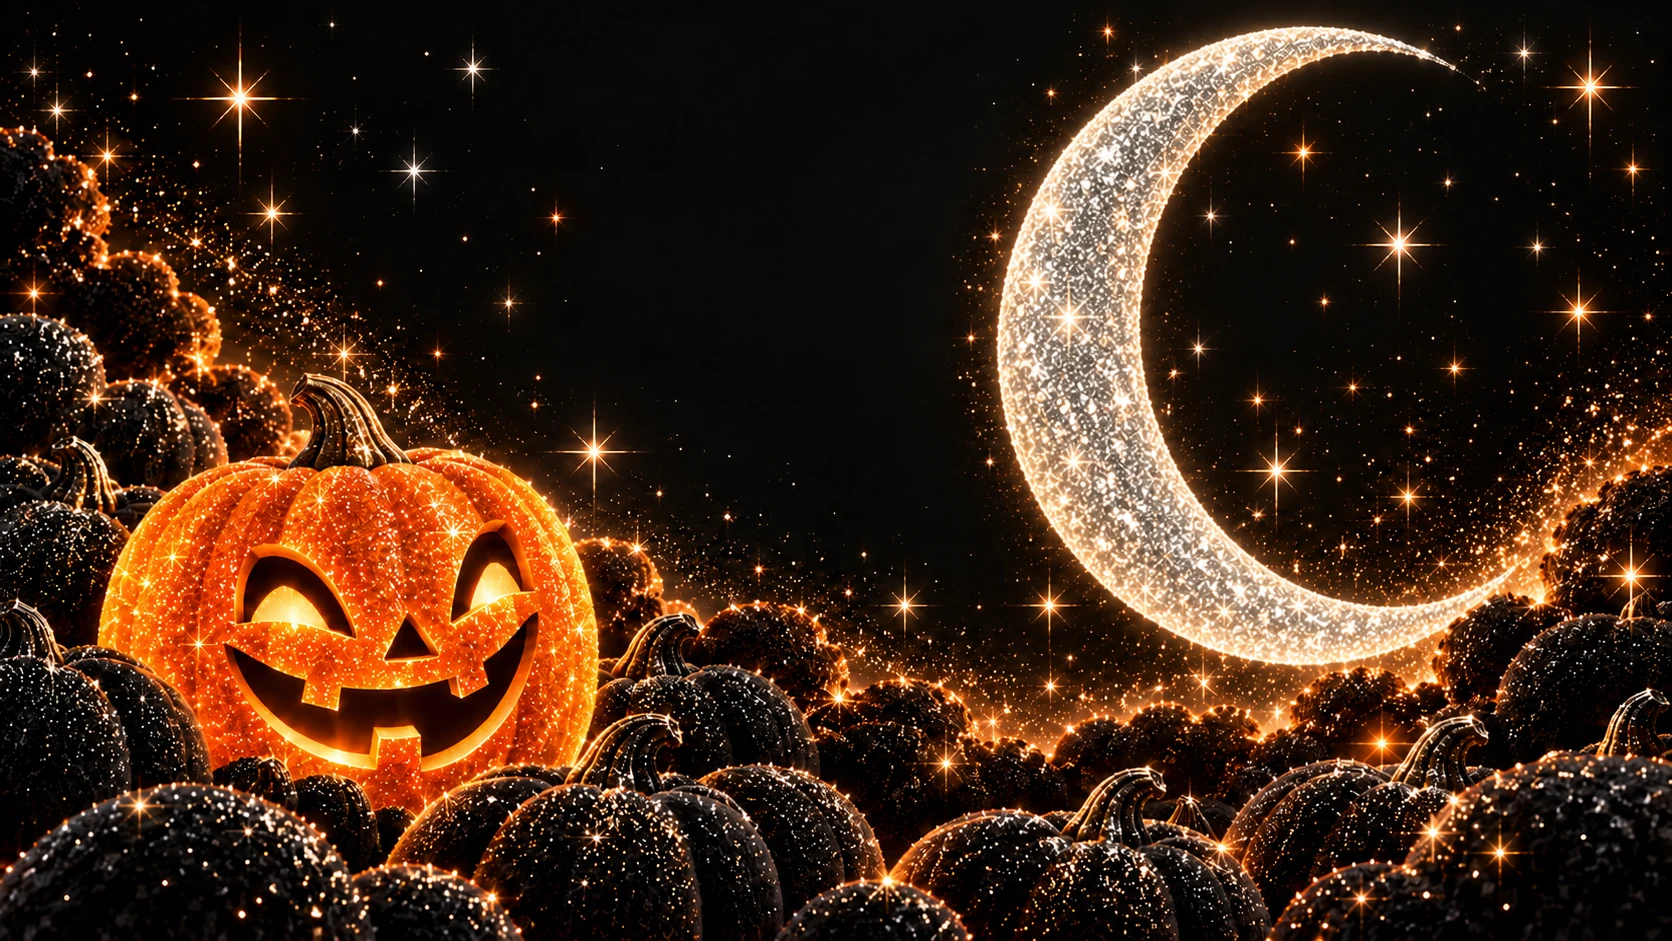
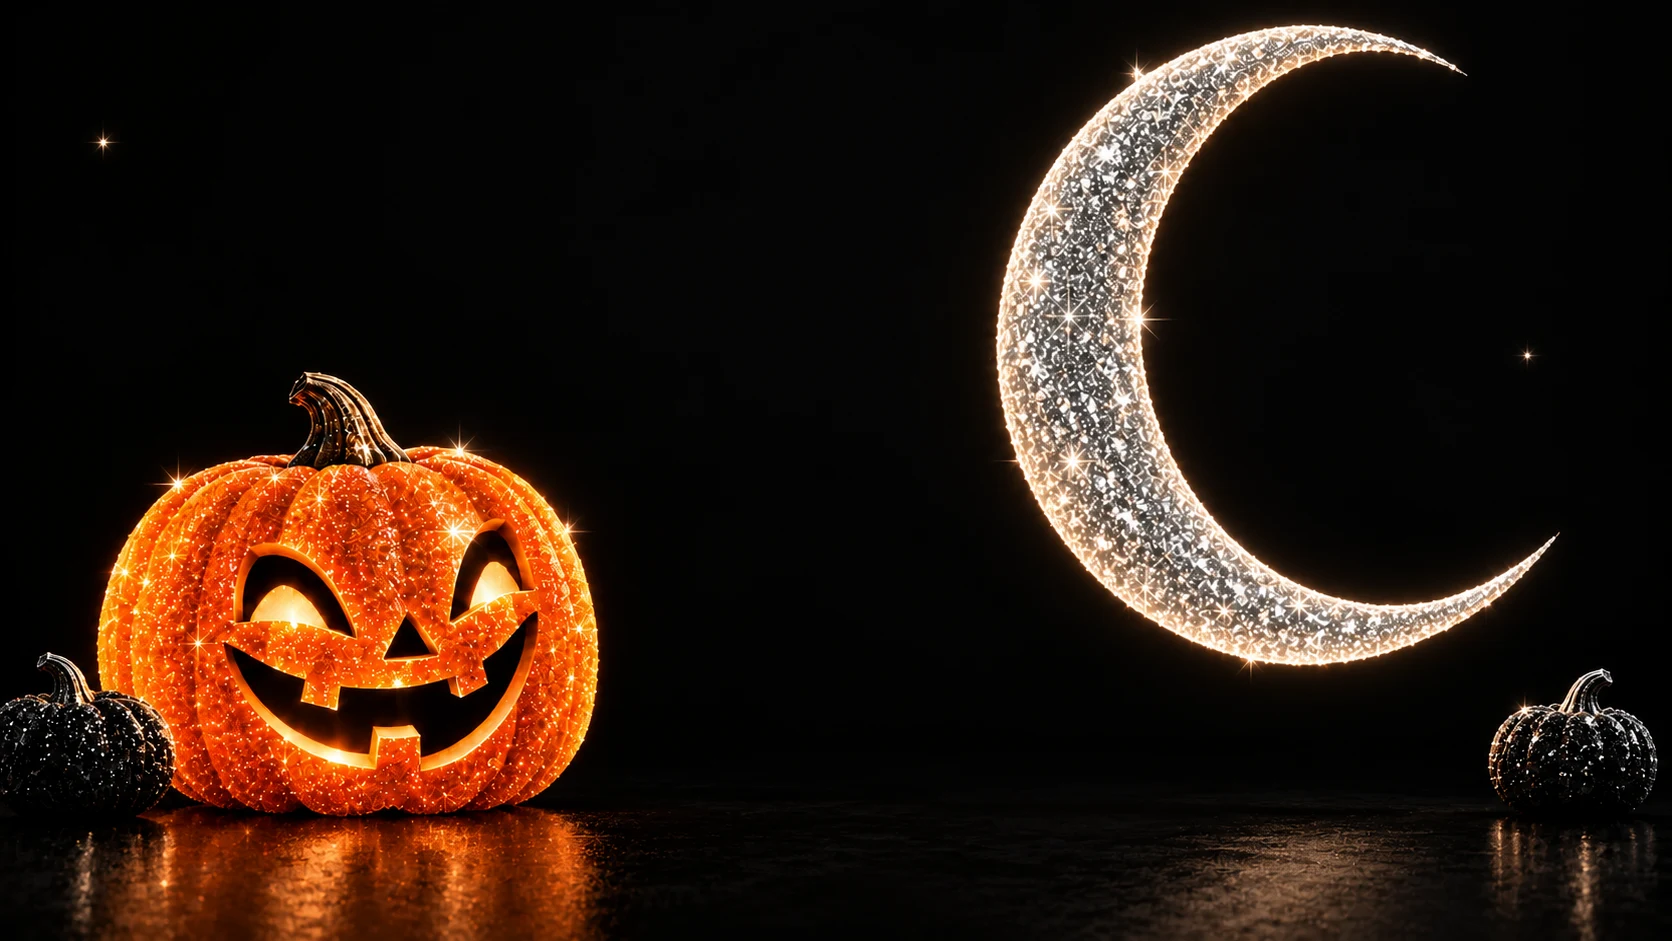
feat(skins): clean up Pumpkin and Witch with Onyx artwork and four twinkles

diff --git a/public/amethyst/halloween-pumpkin-witch.css b/public/amethyst/halloween-pumpkin-witch.css
@@ -29,6 +29,9 @@ body.bg-halloween-pumpkin-witch {
   color: #fff7ed;
 }
 
+/* The four scene stars replace the generic full-page glitter field. */
+body.bg-halloween-pumpkin-witch .hp-fx-layer { display: none; }
+
 body.bg-halloween-pumpkin-witch .hp-header,
 body.bg-halloween-pumpkin-witch .tp-header,
 body.bg-halloween-pumpkin-witch .jp-header,
@@ -66,7 +69,7 @@ body.bg-halloween-pumpkin-witch .bwb-hero,
 body.bg-halloween-pumpkin-witch .bk-home-hero {
   position: relative;
   isolation: isolate;
-  min-height: clamp(560px, 72vw, 820px);
+  min-height: clamp(640px, 42.7vw, 820px);
   overflow: hidden;
   background: #050505;
   color: #fff7ed;
@@ -82,7 +85,7 @@ body.bg-halloween-pumpkin-witch .bk-home-hero::before {
   position: absolute;
   inset: 0;
   z-index: 0;
-  background: #050505 url("/amethyst/skins/halloween-pumpkin-witch/hero-desktop.webp") center / cover no-repeat;
+  background: #050505 url("/amethyst/skins/halloween-pumpkin-witch/hero-desktop.webp?v=20260928-onyx") center / cover no-repeat;
   transform: scale(1.015);
 }
 
@@ -96,10 +99,7 @@ body.bg-halloween-pumpkin-witch .bk-home-hero::after {
   position: absolute;
   inset: 0;
   z-index: 1;
-  background:
-    radial-gradient(circle at 20% 61%, rgba(255, 154, 61, 0.30) 0%, rgba(255, 106, 0, 0.16) 18%, transparent 38%),
-    linear-gradient(90deg, rgba(2, 2, 2, 0.38) 0%, rgba(2, 2, 2, 0.31) 32%, rgba(2, 2, 2, 0.14) 58%, rgba(2, 2, 2, 0.05) 100%),
-    linear-gradient(0deg, rgba(2, 2, 2, 0.48), transparent 38%);
+  background: linear-gradient(0deg, rgba(0, 0, 0, 0.14), transparent 30%);
   pointer-events: none;
 }
 
@@ -117,7 +117,7 @@ body.bg-halloween-pumpkin-witch .hp-hero h1,
 body.bg-halloween-pumpkin-witch .tp-hero h1,
 body.bg-halloween-pumpkin-witch .jp-hero h1 {
   color: #ff9a3d;
-  text-shadow: 0 3px 28px #000, 0 0 18px rgba(255, 106, 0, 0.86), 0 0 42px rgba(255, 154, 61, 0.46);
+  text-shadow: 0 2px 5px #000;
 }
 
 body.bg-halloween-pumpkin-witch .hp-hero-sub,
@@ -315,7 +315,7 @@ body.bg-halloween-pumpkin-witch :is(button:disabled,[aria-disabled="true"]) { op
   right: 8%;
   width: clamp(190px, 25vw, 380px);
   animation: hpw-witch-flight 5.8s cubic-bezier(0.19, 0.8, 0.2, 1) both;
-  filter: drop-shadow(0 0 22px rgba(244, 238, 227, 0.74)) drop-shadow(0 0 28px rgba(255, 106, 0, 0.36));
+  filter: drop-shadow(0 0 5px rgba(244, 238, 227, 0.28));
 }
 
 .hpw-witch {
@@ -334,9 +334,9 @@ body.bg-halloween-pumpkin-witch :is(button:disabled,[aria-disabled="true"]) { op
   height: var(--hpw-size);
   border-radius: 50%;
   background: #fff;
-  box-shadow: 0 0 8px #fff, 0 0 17px #f4eee3, 0 0 28px #ff6a00;
+  box-shadow: 0 0 4px #fff8e8, 0 0 10px rgba(255, 206, 134, 0.45);
   opacity: 0.15;
-  animation: hpw-sparkle-wink 3.3s ease-in-out var(--hpw-delay) infinite;
+  animation: hpw-sparkle-wink 5.8s ease-in-out var(--hpw-delay) infinite;
 }
 
 .hpw-sparkle::before,
@@ -349,8 +349,8 @@ body.bg-halloween-pumpkin-witch :is(button:disabled,[aria-disabled="true"]) { op
 }
 .hpw-sparkle::before { width: 1px; height: 380%; }
 .hpw-sparkle::after { width: 380%; height: 1px; }
-.hpw-sparkle--1 { animation-duration: 4.1s; }
-.hpw-sparkle--2 { animation-duration: 2.7s; }
+.hpw-sparkle--1 { animation-duration: 7.1s; }
+.hpw-sparkle--2 { animation-duration: 6.4s; }
 
 .hpw-motion-control {
   position: absolute;
@@ -391,46 +391,57 @@ body.bg-halloween-pumpkin-witch :is(button:disabled,[aria-disabled="true"]) { op
 
 
 @keyframes hpw-sparkle-wink {
-  0%, 62%, 100% { opacity: 0.12; transform: scale(0.35) rotate(0deg); }
-  72% { opacity: 1; transform: scale(1.35) rotate(45deg); }
-  82% { opacity: 0.32; transform: scale(0.62) rotate(76deg); }
+  0%, 36%, 100% { opacity: 0.12; transform: scale(0.38) rotate(0deg); }
+  48% { opacity: 0.5; transform: scale(0.75) rotate(8deg); }
+  56% { opacity: 1; transform: scale(1.15) rotate(18deg); }
+  67% { opacity: 0.35; transform: scale(0.6) rotate(28deg); }
+  78% { opacity: 0.12; transform: scale(0.38) rotate(36deg); }
 }
 
+/* Keep the copy inside the dark lane between the pumpkin and crescent. */
+body.bg-halloween-pumpkin-witch .jp-hero-card {
+  background: #171513;
+  backdrop-filter: none;
+  -webkit-backdrop-filter: none;
+}
+@media (min-width: 1200px) {
+  body.bg-halloween-pumpkin-witch :is(.hp-hero-inner,.tp-hero-inner,.jp-hero-inner) {
+    width: min(28vw, 540px); max-width: none; margin-left: calc(47% - min(14vw, 270px));
+    margin-right: 0; padding-inline: 0;
+  }
+  body.bg-halloween-pumpkin-witch .hp-hero-inner { grid-template-columns: minmax(0, 1fr); }
+  body.bg-halloween-pumpkin-witch .hp-hero-sub { width: 88%; font-size: 17px; }
+  body.bg-halloween-pumpkin-witch .hp-hero-headline { font-size: clamp(44px, 4vw, 76px); }
+  body.bg-halloween-pumpkin-witch .jp-hero-card { width: 100%; padding: 28px 24px; }
+  body.bg-halloween-pumpkin-witch .jp-hero-title { font-size: clamp(40px, 3.2vw, 58px); }
+}
+
+/* A complete scene above the copy preserves both subjects on smaller screens. */
+@media (max-width: 1199px) {
+  body.bg-halloween-pumpkin-witch :is(.hp-hero,.tp-hero,.jp-hero,.mhf-hero,.bwb-hero,.bk-home-hero) {
+    min-height: 0; display: block; padding: calc(100vw * 941 / 1672 + 24px) 0 72px;
+  }
+  body.bg-halloween-pumpkin-witch :is(.hp-hero,.tp-hero,.jp-hero,.mhf-hero,.bwb-hero,.bk-home-hero)::before {
+    height: calc(100vw * 941 / 1672); bottom: auto; transform: none;
+    background-size: 100% 100%; background-position: center top;
+  }
+  body.bg-halloween-pumpkin-witch :is(.hp-hero,.tp-hero,.jp-hero)::after { background: none; }
+  body.bg-halloween-pumpkin-witch :is(.hp-hero-inner,.tp-hero-inner,.jp-hero-inner) {
+    width: 100%; max-width: 760px; margin-inline: auto; padding: 0 24px;
+  }
+  body.bg-halloween-pumpkin-witch .hp-hero-inner { grid-template-columns: minmax(0,1fr); }
+  body.bg-halloween-pumpkin-witch .hp-hero-headline { font-size: clamp(40px, 6vw, 64px); }
+  body.bg-halloween-pumpkin-witch .hp-hero-sub { font-size: 17px; }
+  body.bg-halloween-pumpkin-witch .hpw-scene { height: calc(100vw * 941 / 1672); bottom: auto; }
+  body.bg-halloween-pumpkin-witch .hpw-witch-flight { width: 25vw; top: 5%; right: 8%; }
+  body.bg-halloween-pumpkin-witch .jp-hero-card { width: 100%; }
+  body.bg-halloween-pumpkin-witch .hpw-motion-control { right: 16px; bottom: 12px; }
+}
 @media (max-width: 700px) {
-  body.bg-halloween-pumpkin-witch .hp-hero,
-  body.bg-halloween-pumpkin-witch .tp-hero,
-  body.bg-halloween-pumpkin-witch .jp-hero,
-  body.bg-halloween-pumpkin-witch .mhf-hero,
-  body.bg-halloween-pumpkin-witch .bwb-hero,
-  body.bg-halloween-pumpkin-witch .bk-home-hero {
-    min-height: 720px;
+  body.bg-halloween-pumpkin-witch :is(.hp-hero,.tp-hero,.jp-hero,.mhf-hero,.bwb-hero,.bk-home-hero)::before {
+    background-image: url("/amethyst/skins/halloween-pumpkin-witch/hero-mobile.webp?v=20260928-onyx");
   }
-
-  body.bg-halloween-pumpkin-witch .hp-hero::before,
-  body.bg-halloween-pumpkin-witch .tp-hero::before,
-  body.bg-halloween-pumpkin-witch .jp-hero::before,
-  body.bg-halloween-pumpkin-witch .mhf-hero::before,
-  body.bg-halloween-pumpkin-witch .bwb-hero::before,
-  body.bg-halloween-pumpkin-witch .bk-home-hero::before {
-    background-image: url("/amethyst/skins/halloween-pumpkin-witch/hero-mobile.webp");
-    background-position: center top;
-  }
-
-  body.bg-halloween-pumpkin-witch .hp-hero::after,
-  body.bg-halloween-pumpkin-witch .tp-hero::after,
-  body.bg-halloween-pumpkin-witch .jp-hero::after {
-    background:
-      radial-gradient(circle at 50% 32%, rgba(255, 154, 61, 0.34) 0%, rgba(255, 106, 0, 0.15) 20%, transparent 44%),
-      linear-gradient(0deg, rgba(2, 2, 2, 0.92) 0%, rgba(2, 2, 2, 0.68) 42%, rgba(2, 2, 2, 0.06) 76%);
-  }
-
-  .hpw-witch-flight {
-    top: 7%;
-    right: -4%;
-    width: clamp(150px, 48vw, 250px);
-  }
-
-  .hpw-motion-control { right: 10px; bottom: 10px; }
+  body.bg-halloween-pumpkin-witch .jp-hero-card { padding: 24px 16px; }
 }
 
 @media (prefers-reduced-motion: reduce) {

diff --git a/tests/halloween-pumpkin-witch-skin.test.ts b/tests/halloween-pumpkin-witch-skin.test.ts
@@ -124,7 +124,7 @@ describe("Halloween Pumpkin and Witch Amethyst skin", () => {
       const html = read("public", "amethyst", page);
       expect(html).toContain("halloween-pumpkin-witch.css");
       expect(html).toContain("halloween-pumpkin-witch.js");
-      expect(html).toContain("20260921-hpw2");
+      expect(html).toContain("20260928-hpw3");
     },
   );
 
@@ -137,7 +137,7 @@ describe("Halloween Pumpkin and Witch Amethyst skin", () => {
     expect(css).toContain("hero-mobile.webp");
     expect(css).toContain("@media (prefers-reduced-motion: reduce)");
     expect(css).toContain("animation-play-state: paused");
-    expect(css).toContain("circle at 20% 61%");
+    expect(css).not.toContain("circle at 20% 61%");
     expect(css).toContain("--hp-electric-purple: #e3b7ff");
     expect(css).toContain("color: #ff9a3d;");
     expect(css).not.toContain(".hpw-bat");
@@ -154,7 +154,7 @@ describe("Halloween Pumpkin and Witch Amethyst skin", () => {
 
     const expectedAssets = {
       "hero-desktop.webp": { width: 1672, height: 941, hasAlpha: false },
-      "hero-mobile.webp": { width: 1024, height: 1536, hasAlpha: false },
+      "hero-mobile.webp": { width: 836, height: 471, hasAlpha: false },
       "witch.webp": { width: 1659, height: 948, hasAlpha: true },
     };
     for (const [asset, expected] of Object.entries(expectedAssets)) {

diff --git a/public/amethyst/Homepage.html b/public/amethyst/Homepage.html
@@ -28,7 +28,7 @@
 <link rel="stylesheet" href="homepage.css?v=20260928-hpc1" />
 <link rel="stylesheet" href="/amethyst/gnome-garden.css?v=20260905-gnome1" />
 <link rel="stylesheet" href="/amethyst/neon-butterfly.css?v=20260914-nb1" />
-<link rel="stylesheet" href="/amethyst/halloween-pumpkin-witch.css?v=20260928-halloween-controls" />
+<link rel="stylesheet" href="/amethyst/halloween-pumpkin-witch.css?v=20260928-hpw3" />
 <link rel="stylesheet" href="/amethyst/britt-hero-buttons.css?v=20260905-buttons1" />
 <link rel="stylesheet" href="/amethyst/halloween-pumpkin-cat.css?v=20260928-hpc1" />
 </head>
@@ -44,7 +44,7 @@
 <script src="template-loader.js" data-template-src="/api/amethyst/homepage-template"></script>
   <script src="/amethyst/live-lineup.js?v=20260909-lineup-v2"></script>
 <script src="/amethyst/neon-butterfly.js?v=20260914-nb1"></script>
-<script src="/amethyst/halloween-pumpkin-witch.js?v=20260921-hpw2"></script>
+<script src="/amethyst/halloween-pumpkin-witch.js?v=20260928-hpw3"></script>
 <script src="sparkle-suite-footer-credit.js?v=20260927-powered-by"></script>
 <script type="text/babel" data-presets="react" src="homepage.jsx?v=20260928-hpc1"></script>
 

diff --git a/public/amethyst/Trade.html b/public/amethyst/Trade.html
@@ -29,7 +29,7 @@
 <link rel="stylesheet" href="trade.css?v=20260923-trade-request-completion" />
 <link rel="stylesheet" href="/amethyst/gnome-garden.css?v=20260905-gnome1" />
 <link rel="stylesheet" href="/amethyst/neon-butterfly.css?v=20260914-nb1" />
-<link rel="stylesheet" href="/amethyst/halloween-pumpkin-witch.css?v=20260928-halloween-controls" />
+<link rel="stylesheet" href="/amethyst/halloween-pumpkin-witch.css?v=20260928-hpw3" />
 <link rel="stylesheet" href="/amethyst/halloween-pumpkin-cat.css?v=20260928-hpc1" />
 </head>
 <body class="tradepage">
@@ -44,7 +44,7 @@
 <script src="/amethyst/live-lineup.js?v=20260909-lineup-v2"></script>
 <script src="template-loader.js" data-template-src="/api/amethyst/trade-template"></script>
 <script src="/amethyst/neon-butterfly.js?v=20260914-nb1"></script>
-<script src="/amethyst/halloween-pumpkin-witch.js?v=20260921-hpw2"></script>
+<script src="/amethyst/halloween-pumpkin-witch.js?v=20260928-hpw3"></script>
 <script src="sparkle-suite-footer-credit.js?v=20260927-powered-by"></script>
 <script type="text/babel" data-presets="react" src="trade.jsx?v=20260928-hpc1"></script>
 

diff --git a/public/amethyst/Join.html b/public/amethyst/Join.html
@@ -29,7 +29,7 @@
 <link rel="stylesheet" href="join.css?v=20260920-team-portraits-v1" />
 <link rel="stylesheet" href="/amethyst/gnome-garden.css?v=20260905-gnome1" />
 <link rel="stylesheet" href="/amethyst/neon-butterfly.css?v=20260914-team-recruiting-v1" />
-<link rel="stylesheet" href="/amethyst/halloween-pumpkin-witch.css?v=20260928-halloween-controls" />
+<link rel="stylesheet" href="/amethyst/halloween-pumpkin-witch.css?v=20260928-hpw3" />
 <link rel="stylesheet" href="/amethyst/halloween-pumpkin-cat.css?v=20260928-hpc1" />
 </head>
 <body class="joinpage">
@@ -39,7 +39,7 @@
 <script src="/amethyst/live-lineup.js?v=20260909-lineup-v2"></script>
 <script src="template-loader.js" data-template-src="/api/amethyst/join-template"></script>
 <script src="/amethyst/neon-butterfly.js?v=20260914-nb1"></script>
-<script src="/amethyst/halloween-pumpkin-witch.js?v=20260921-hpw2"></script>
+<script src="/amethyst/halloween-pumpkin-witch.js?v=20260928-hpw3"></script>
 <script src="sparkle-suite-footer-credit.js?v=20260927-powered-by"></script>
 <script src="join-runtime.js?v=20260928-hpc1"></script>
 

diff --git a/public/amethyst/Unsubscribe.html b/public/amethyst/Unsubscribe.html
@@ -16,7 +16,7 @@
 <link rel="stylesheet" href="homepage.css?v=20260928-hpc1" />
 <link rel="stylesheet" href="gnome-garden.css?v=20260905-gnome1" />
 <link rel="stylesheet" href="neon-butterfly.css?v=20260914-nb1" />
-<link rel="stylesheet" href="halloween-pumpkin-witch.css?v=20260921-hpw2" />
+<link rel="stylesheet" href="halloween-pumpkin-witch.css?v=20260928-hpw3" />
 <link rel="stylesheet" href="/amethyst/halloween-pumpkin-cat.css?v=20260928-hpc1" />
 </head>
 <body class="homepage">
@@ -29,7 +29,7 @@
 
 <script src="/api/amethyst/homepage-template"></script>
 <script src="neon-butterfly.js?v=20260914-nb1"></script>
-<script src="halloween-pumpkin-witch.js?v=20260921-hpw2"></script>
+<script src="halloween-pumpkin-witch.js?v=20260928-hpw3"></script>
 <script src="sparkle-suite-footer-credit.js?v=20260927-powered-by"></script>
 <script type="text/babel" data-presets="react" src="unsubscribe.jsx?v=20260928-hpc1"></script>
 

diff --git a/public/amethyst/halloween-pumpkin-witch.js b/public/amethyst/halloween-pumpkin-witch.js
@@ -3,12 +3,8 @@
   const HERO_SELECTOR = ".hp-hero,.tp-hero,.jp-hero,.mhf-hero,.bwb-hero,.bk-home-hero";
   const ASSET_ROOT = "/amethyst/skins/halloween-pumpkin-witch/";
   const SPARKLES = [
-    [8, 18, 0.1, 7], [15, 66, 1.7, 5], [22, 34, 3.2, 9],
-    [31, 78, 2.4, 6], [39, 14, 0.8, 5], [47, 54, 4.1, 8],
-    [55, 23, 2.1, 6], [62, 72, 1.2, 10], [69, 39, 3.7, 5],
-    [76, 15, 2.8, 8], [83, 62, 0.5, 7], [91, 31, 4.5, 6],
-    [12, 45, 4.8, 4], [27, 10, 3.4, 6], [44, 84, 1.4, 5],
-    [58, 45, 0.3, 7], [73, 87, 3.9, 5], [88, 74, 2.6, 9],
+    [12, 18, -0.8, 8], [30, 12, -3.1, 7],
+    [84, 50, -1.9, 8], [95, 72, -4.7, 7],
   ];
 
   function makeSparkles() {

diff --git a/lib/amethyst/skin-cards.ts b/lib/amethyst/skin-cards.ts
@@ -202,7 +202,7 @@ export const AMETHYST_SKIN_CARDS: AmethystSkinCard[] = [
     headingFont: 'Playfair Display',
     bodyFont: 'DM Sans',
     surfaceNote: 'Midnight glass cards with silver edges and warm pumpkin glow',
-    motionNote: 'Witch fly-in and moon landing, starbursts, pause control, and reduced-motion support',
+    motionNote: 'Witch fly-in, four gentle star twinkles, pause control, and reduced-motion support',
     swatches: [
       { label: 'Midnight', value: '#090909' },
       { label: 'Pumpkin', value: '#ff6a00' },

diff --git a/docs/sparkle-suite/operations/2026-09-28-witch-onyx-release.md b/docs/sparkle-suite/operations/2026-09-28-witch-onyx-release.md
@@ -1,0 +1,22 @@
+# Pumpkin and Witch: approved Onyx cleanup
+
+Louis selected B / Onyx Accents with four additional animated stars, then explicitly requested a live release on September 28, 2026. This updates the existing community skin `halloween_pumpkin_witch` / HPW-01. Its catalog identity, selection policy, saved customer settings, and original witch asset remain intact.
+
+The approved plate replaces amber haze and crowded pumpkins with black negative space and two defined black accent pumpkins. Four deterministic, staggered star twinkles replace the generic glitter field. Witch flight/hover, pause/resume, hidden-document pausing, and reduced-motion support remain. Desktop text stays in the central dark lane; smaller screens show the complete scene above the content. Join copy uses an opaque dark card. All four shared Amethyst templates load versioned assets.
+
+## Provenance and scope
+
+- Repository: louis623/sparkle-suite; branch: codex/nic-nac-trade-hardening.
+- Verified starting GitHub and served Live SHA: a3959907cc0850a8d78daa5db1da521abb3c2c0a.
+- Clean disposable workspace: C:/Users/louis/.codex/visualizations/2026/09/27/01a0e4a0-e780-7dc2-a891-d506a0011173/suite-halloween-release.
+- Prior Live: dpl_96uGyHAPfc2pSqSAMQ5Rb3Q7hncL; sparkle-suite-2k30ap0dh-louis-2849s-projects.vercel.app.
+- Smoke project: prj_VTY0rpz2O3VBJqJv69iBz8tzLexQ; use a candidate without reassigning its existing alias.
+- Live project: prj_zCKmYDx1Sbs9hA1Lokzdv9Qm0TM3; rebuild verified source with production configuration after Smoke verification.
+- Existing Live aliases that follow the production deployment: www.yoursparklesuite.com, yoursparklesuite.com, sparkle-suite.vercel.app, milehighfizz.com, www.milehighfizz.com, brisglowtique.com, www.brisglowtique.com, goforthebling.com, brittwithbling.com, www.brittwithbling.com, theblingkitchen.com, www.theblingkitchen.com, sparklybutterflies.com, www.sparklybutterflies.com.
+- No database migrations, account-selection changes, extension edits, provider calls, or Higgsfield generation are required.
+
+## Review path
+
+Open /skin-preview/halloween_pumpkin_witch/homepage on the canonical live domain, then use Dance Floor, Join, and Preferences. All pages use explicit sample content in the existing opaque sandbox; no customer submissions or live provider requests occur. Reload resets the fixture. Test Pause/Resume on the hero, desktop/tablet/mobile widths, readable controls and card text. Separately verify HPW-01 remains in the authenticated available-skin options and can be saved/reloaded on the synthetic Smoke account, restoring its previous selection afterward.
+
+Validation and final deployment IDs are recorded in the Core Memory ship closeout after release.
